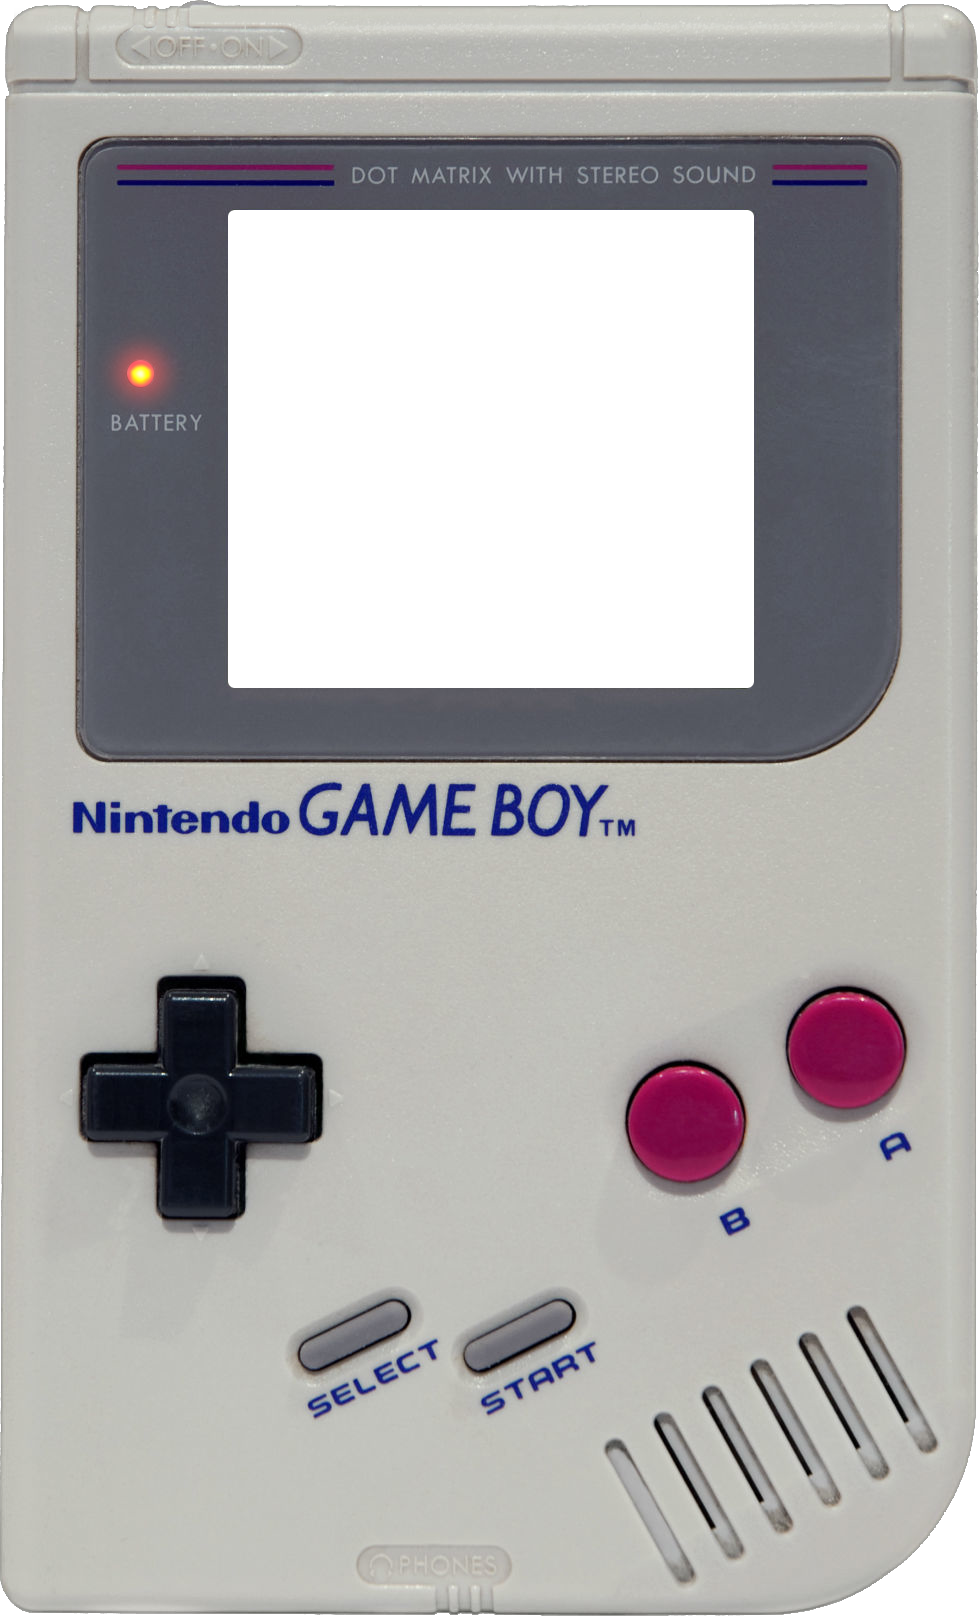
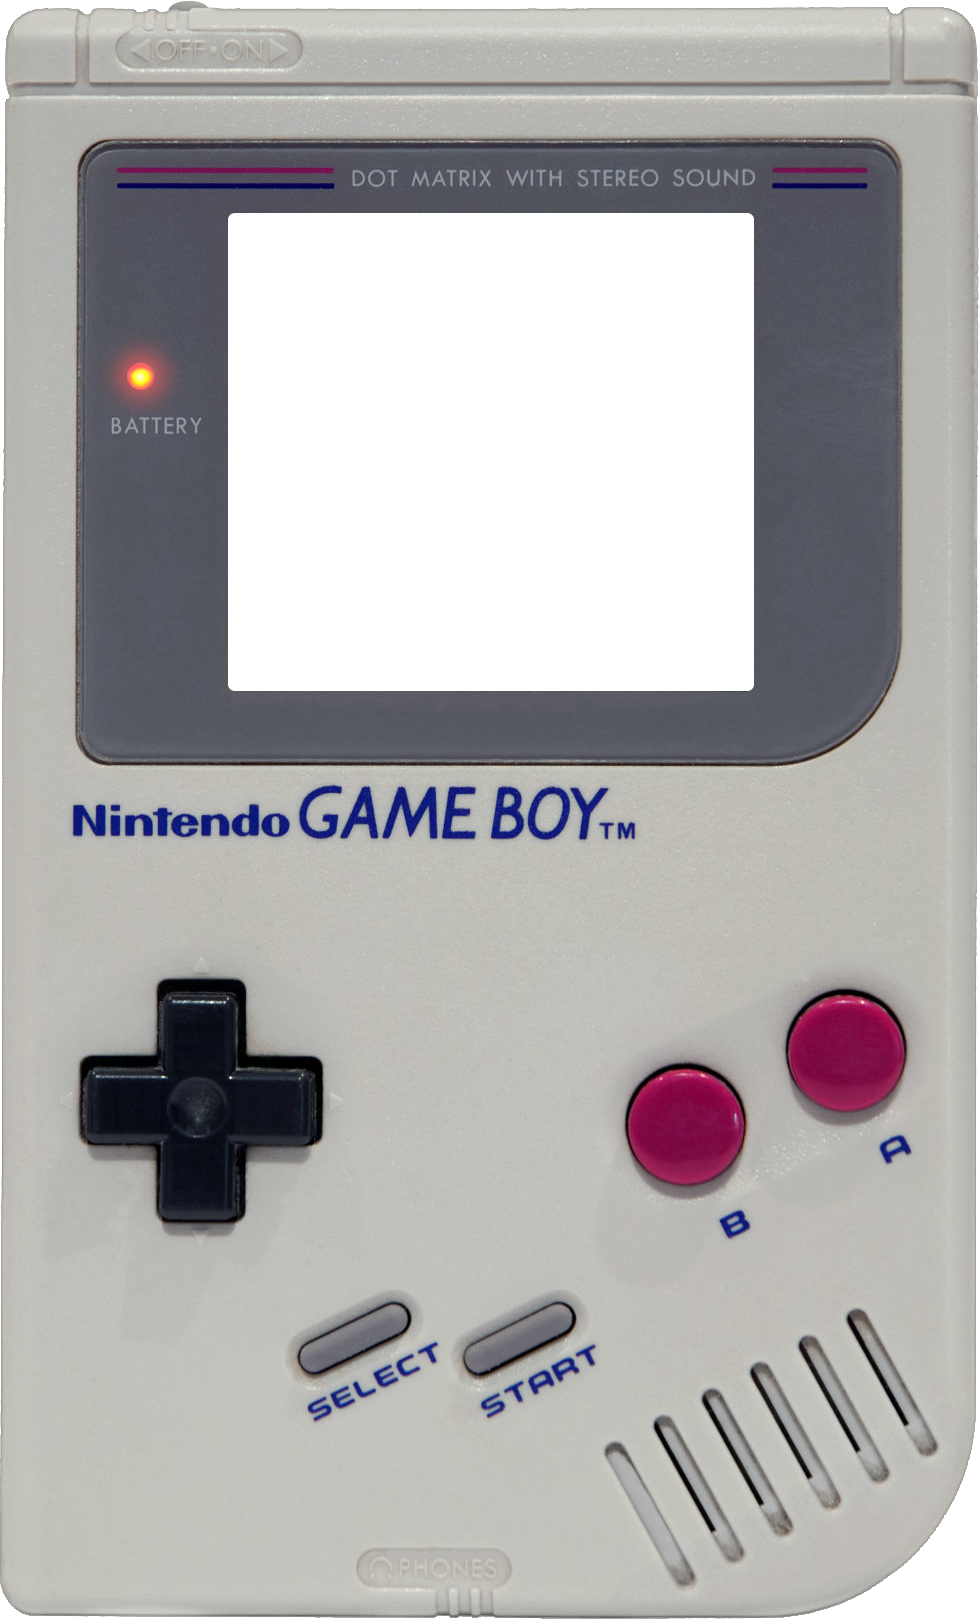
update

diff --git a/src/App.jsx b/src/App.jsx
@@ -5,10 +5,11 @@ import PokemonFetch from "./components/PokemonFetch";
 import PokemonList from "./components/PokemonList";
 import PokemonDisplay from "./components/PokemonDisplay";
 import AboutDisplay from "./views/AboutDisplay";
-import dmgBg from "./assets/dmg-bg.png";
+import dmgBgOn from "./assets/dmg-bg.png";
+import dmgBgOff from "./assets/dmg-bg-off.png";
 import bgMusic from "./assets/pallet-town-theme.mp3";
-import nintendoLogo from "./assets/nintendo-logo.png"
-import startupSound from "./assets/nintendo-startup.mp3"
+import nintendoLogo from "./assets/nintendo-logo.png";
+import startupSound from "./assets/nintendo-startup.mp3";
 
 function App() {
   const [pokemonArr, setPokemonArr] = useState([]);
@@ -22,9 +23,9 @@ function App() {
   //sound manipulation
   const backgroundMusic = new Audio(bgMusic);
   const [bgMusicStatus, setBgMusicStatus] = useState(false);
-  const nintendoStartSound = new Audio(startupSound)
+  const nintendoStartSound = new Audio(startupSound);
   backgroundMusic.volume = 0.1;
-  nintendoStartSound.volume = 0.1
+  nintendoStartSound.volume = 0.1;
   const bgRef = useRef(backgroundMusic);
 
   const playBgMusic = () => {
@@ -40,18 +41,28 @@ function App() {
 
   const playNintendoSound = () => {
     nintendoStartSound.play();
-  }
+  };
 
-  useEffect(() => {
-    setTimeout(playNintendoSound, 2700);
-    setTimeout(nintendoStartup, 4150);
-    
-  }, []);
-
-  // setTimeout(setLoadContent(true), 10);
   const nintendoStartup = () => {
-    setLoadContent(true)
-  }
+    setLoadContent(true);
+    document.getElementById("startup-bg").style.display = "none";
+    playBgMusic();
+  };
+
+  // useEffect(() => {
+
+  // }, []);
+
+  const turnGameboyOn = () => {
+    document.getElementById("on-button").style.display = "none";
+    document.getElementById("screen-dark").style.display = "none";
+    document.getElementById("dmg-img-off").style.display = "none";
+    document.getElementById("startup-bg").style.display = "block";
+    document.getElementById("dmg-img-on").style.display = "block";
+    setTimeout(playNintendoSound, 2450);
+    setTimeout(nintendoStartup, 4200);
+    document.getElementById("nintendo-animation").style.display = "block";
+  };
 
   return (
     <div className="text-center mt-3 m-auto">
@@ -64,11 +75,22 @@ function App() {
           setIsClicked={setIsClicked}
         />
       </div>
+      <h1 id="on-button" onClick={turnGameboyOn}>
+        Click here to turn on Gameboy
+      </h1>
+      <div id="screen-dark" ></div>
       <div className="dmg-bg">
-        <img src={dmgBg} alt="DMG" className="dmg-img" />
+        <img src={dmgBgOff} alt="DMG" id="dmg-img-off" />
+        <img src={dmgBgOn} alt="DMG" id="dmg-img-on" />
+        <div id="startup-bg"></div>
         <div className="glass-illusion"></div>
-        {/* <div className="nintendo-logo">Nintendo</div> */}
-        <img src={nintendoLogo} alt="Nintendo Logo" className="nintendo-logo"/>
+
+        <img
+          src={nintendoLogo}
+          alt="Nintendo Logo"
+          className="nintendo-logo"
+          id="nintendo-animation"
+        />
         {loadContent && (
           <div className="pokemon-box m-auto col-11">
             <Routes>
@@ -107,7 +129,8 @@ function App() {
             </Routes>
           </div>
         )}
-        <div className="background-green"></div>
+        <div id="background-green"></div>
+        {/* <div id="background-gray"></div> */}
       </div>
     </div>
   );

diff --git a/src/App.css b/src/App.css
@@ -30,7 +30,6 @@
 body {
   height: 100vh;
   overflow: hidden;
-  /* background: linear-gradient(-45deg, #ffeb3b, #74efff, #9c27b0); */
   background: linear-gradient(-45deg, #3b3604, #04363d, #320a39);
   background-size: 400% 400%;
   animation: gradient-bg 20s ease infinite;
@@ -48,20 +47,87 @@ body {
 }
 }
 
-.dmg-img {
-  width: 820px;
+
+#on-button {
+  position: absolute;
+  top: 380px;
+  left: 670px;
+  width: 200px;
+  z-index: 102;
+  padding: 5px 5px;
+  cursor: pointer;
+  background-color: rgba(0,0,0,.4);
+  backdrop-filter: blur(5px);
+  border-radius: 10px;
+  font-size: .8rem;
+  animation: bgFade 14s infinite;
+}
+
+@keyframes bgFade {
+  0% {
+  background-color: rgba(0,0,0,.4);
+  box-shadow: 0px 0px 10px rgba(255, 0, 0, 1);
+  }
+
+  25% {
+    background-color: rgba(0, 0, 0, 0.1);
+    box-shadow: 0px 0px 10px rgb(0, 191, 255);
+  }
+
+  50% {
+    background-color: rgba(0,0,0,.4);
+    box-shadow: 0px 0px 10px rgb(72, 255, 0);
+  }
+
+  75% {
+    background-color: rgba(0,0,0,.1);
+    box-shadow: 0px 0px 10px rgb(225, 255, 0);
+  }
+
+  100% {
+  background-color: rgba(0,0,0,.4);
+  box-shadow: 0px 0px 10px rgba(255, 0, 0, 1);
+  }
+  
+}
+
+#screen-dark {
+  background-color: rgba(0, 0, 0, 0.4);
+  width: 100vw;
+  height: 110vh;
+  position: absolute;
+  z-index: 101;
+  top: -10px;
+  backdrop-filter: blur(5px);
+}
+
+#dmg-img-on {
+  width: 815px;
   /* opacity: .5; */
   filter: drop-shadow(-4px 4px 2.5px rgba(0,0,0,.55)) brightness(85%) contrast(90%);
   position: relative;
   z-index: 100;
   pointer-events: none;
+  display: none;
+  margin: auto;
+}
+
+#dmg-img-off {
+  width: 815px;
+  /* opacity: .5; */
+  filter: drop-shadow(-4px 4px 2.5px rgba(0,0,0,.55)) brightness(85%) contrast(90%);
+  position: relative;
+  z-index: 100;
+  pointer-events: none;
+  display: block;
+  margin: auto;
 }
 
 .pokemon-fetch-button {
   position: absolute;
 }
 
-.background-green {
+#background-green {
   position: absolute;
   width: 480px;
   height: 430px;
@@ -88,13 +154,13 @@ body {
   position: absolute;
   z-index: 0;
   top: 120px;
-  left: 630px;
+  left: 628px;
   width: 20%;
   filter: drop-shadow(-2px 2px 1px rgba(0, 0, 0, 0.3));
   animation-name: nintendo;
   animation-duration: 4s;
   animation-timing-function: linear;
-  animation-delay: 1.5;
+  display: none;
 }
 
 @keyframes nintendo {
@@ -102,12 +168,22 @@ body {
     top: 120px;
   }
 
-  65% {
+  70% {
     top: 370px;
   }
   100% {
     top: 370px;
   }
+}
+
+#startup-bg {
+  background-color: rgba(0, 0, 0, 0.07);
+  width: 420px;
+  height: 380px;
+  position: absolute;
+  top: 205px;
+  left: 558px;
+  display: none;
 }
 
 .pokemon-box {
@@ -118,7 +194,7 @@ body {
   text-shadow: -1px 1px 2px rgba(0, 0, 0, 0.3);
   position: absolute;
   top: 205px;
-  left: 560px;
+  left: 558px;
   /* visibility: hidden; */
 }
 
@@ -514,6 +590,10 @@ body {
 .github {
   top: -126px;
   left: -43px;
+}
+
+.hidden {
+  visibility: hidden !important;
 }
 
 
